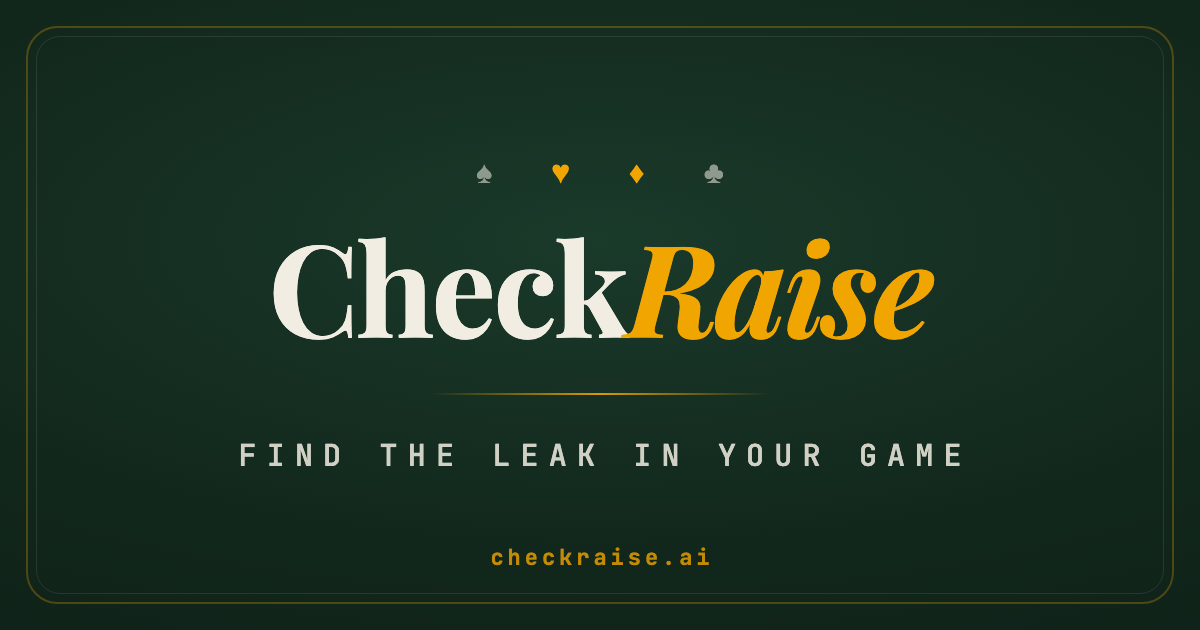
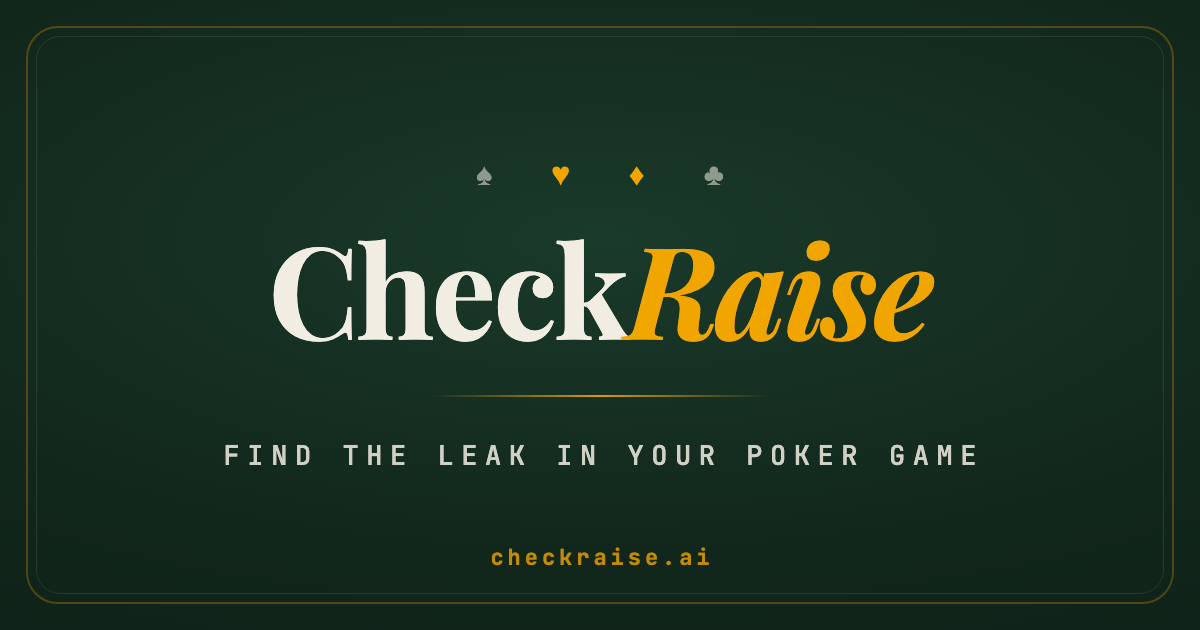
Copy pass: 'find the leak in your poker game', drop five-a-day claim
Founder feedback: sign-in subtitle is now just 'Sign in and play for free';
five-spots-a-day removed everywhere (sessions are 5 hands, but play is
unlimited per day); og.png regenerated with the new tagline.

diff --git a/public/index.html b/public/index.html
@@ -5,7 +5,7 @@
     <link rel="icon" href="%PUBLIC_URL%/favicon.ico" />
     <meta name="viewport" content="width=device-width, initial-scale=1, viewport-fit=cover" />
     <meta name="theme-color" content="#1a3a2a" />
-    <meta name="description" content="Five real Texas Hold'em spots a day. CheckRaise grades every decision across 8 skills and names the pattern behind your mistakes. Free to play." />
+    <meta name="description" content="Short sessions of real Texas Hold'em spots. CheckRaise grades every decision across 8 skills and names the pattern behind your mistakes. Free to play." />
     <meta name="mobile-web-app-capable" content="yes" />
     <meta name="apple-mobile-web-app-capable" content="yes" />
     <meta name="apple-mobile-web-app-status-bar-style" content="black-translucent" />
@@ -19,15 +19,15 @@
     <meta property="og:type" content="website" />
     <meta property="og:site_name" content="CheckRaise" />
     <meta property="og:url" content="https://checkraise.ai/" />
-    <meta property="og:title" content="CheckRaise — Find the leak in your game" />
-    <meta property="og:description" content="Five real Hold'em spots a day, graded across 8 skills. No solver charts — it finds the pattern behind your misses and coaches you out of it." />
+    <meta property="og:title" content="CheckRaise — Find the leak in your poker game" />
+    <meta property="og:description" content="Real Hold'em spots, every decision graded across 8 skills. No solver charts — it finds the pattern behind your misses and coaches you out of it." />
     <meta property="og:image" content="https://checkraise.ai/og.png" />
     <meta property="og:image:width" content="1200" />
     <meta property="og:image:height" content="630" />
-    <meta property="og:image:alt" content="CheckRaise — find the leak in your game" />
+    <meta property="og:image:alt" content="CheckRaise — find the leak in your poker game" />
     <meta name="twitter:card" content="summary_large_image" />
-    <meta name="twitter:title" content="CheckRaise — Find the leak in your game" />
-    <meta name="twitter:description" content="Five real Hold'em spots a day, graded across 8 skills. No solver charts — it finds the pattern behind your misses and coaches you out of it." />
+    <meta name="twitter:title" content="CheckRaise — Find the leak in your poker game" />
+    <meta name="twitter:description" content="Real Hold'em spots, every decision graded across 8 skills. No solver charts — it finds the pattern behind your misses and coaches you out of it." />
     <meta name="twitter:image" content="https://checkraise.ai/og.png" />
 
     <title>CheckRaise — The Poker Trainer That Finds Your Leaks</title>

diff --git a/src/components/SignIn.jsx b/src/components/SignIn.jsx
@@ -50,12 +50,10 @@ export default function SignIn() {
       <div className="ue-card">
         <div className="ue-logo">Check<em>Raise</em></div>
         {/* First-five-seconds pitch: a cold visitor (r/poker, a shared link)
-            lands here — lead with what it does, not with the sign-in demand. */}
-        <div className="ue-title">Find the leak in your game</div>
-        <div className="ue-subtitle">
-          Five real Hold'em spots a day, every decision graded.
-          Sign in free — your stats and streak follow you on every device.
-        </div>
+            lands here — lead with what it does, not with the sign-in demand.
+            Founders keep this deliberately spare (July 2026). */}
+        <div className="ue-title">Find the leak in your poker game</div>
+        <div className="ue-subtitle">Sign in and play for free.</div>
 
         {sent ? (
           <div className="si-sent">
